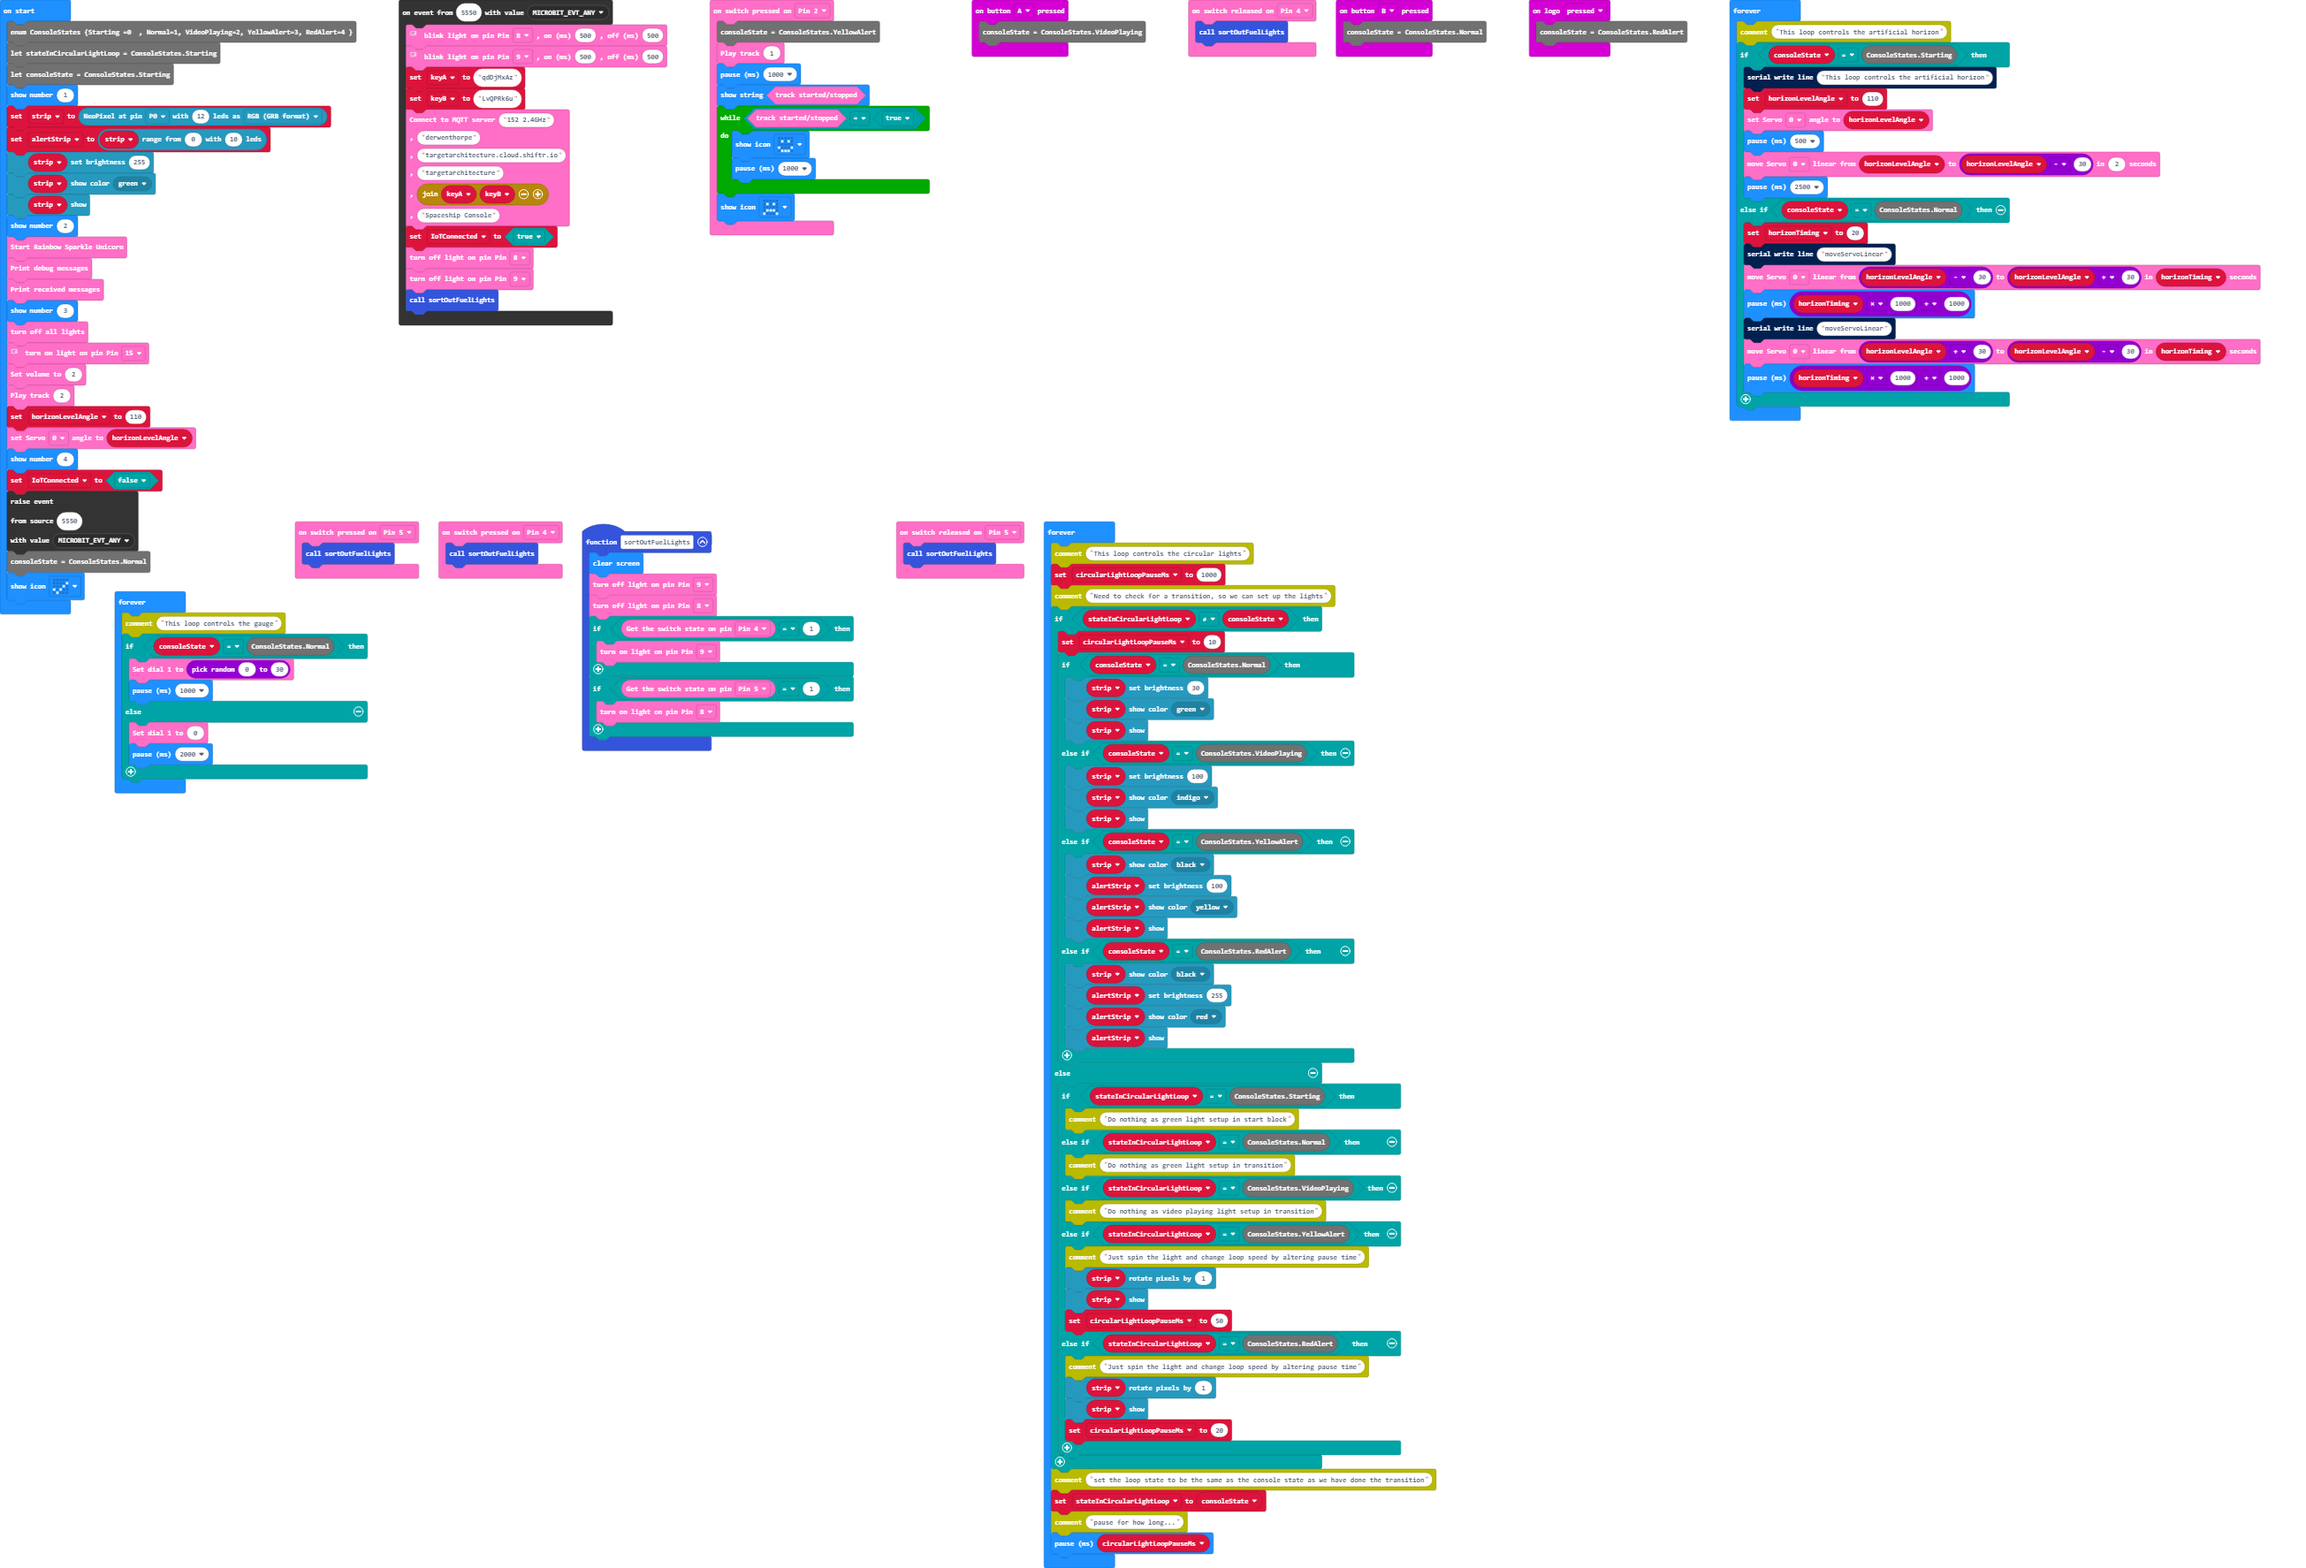
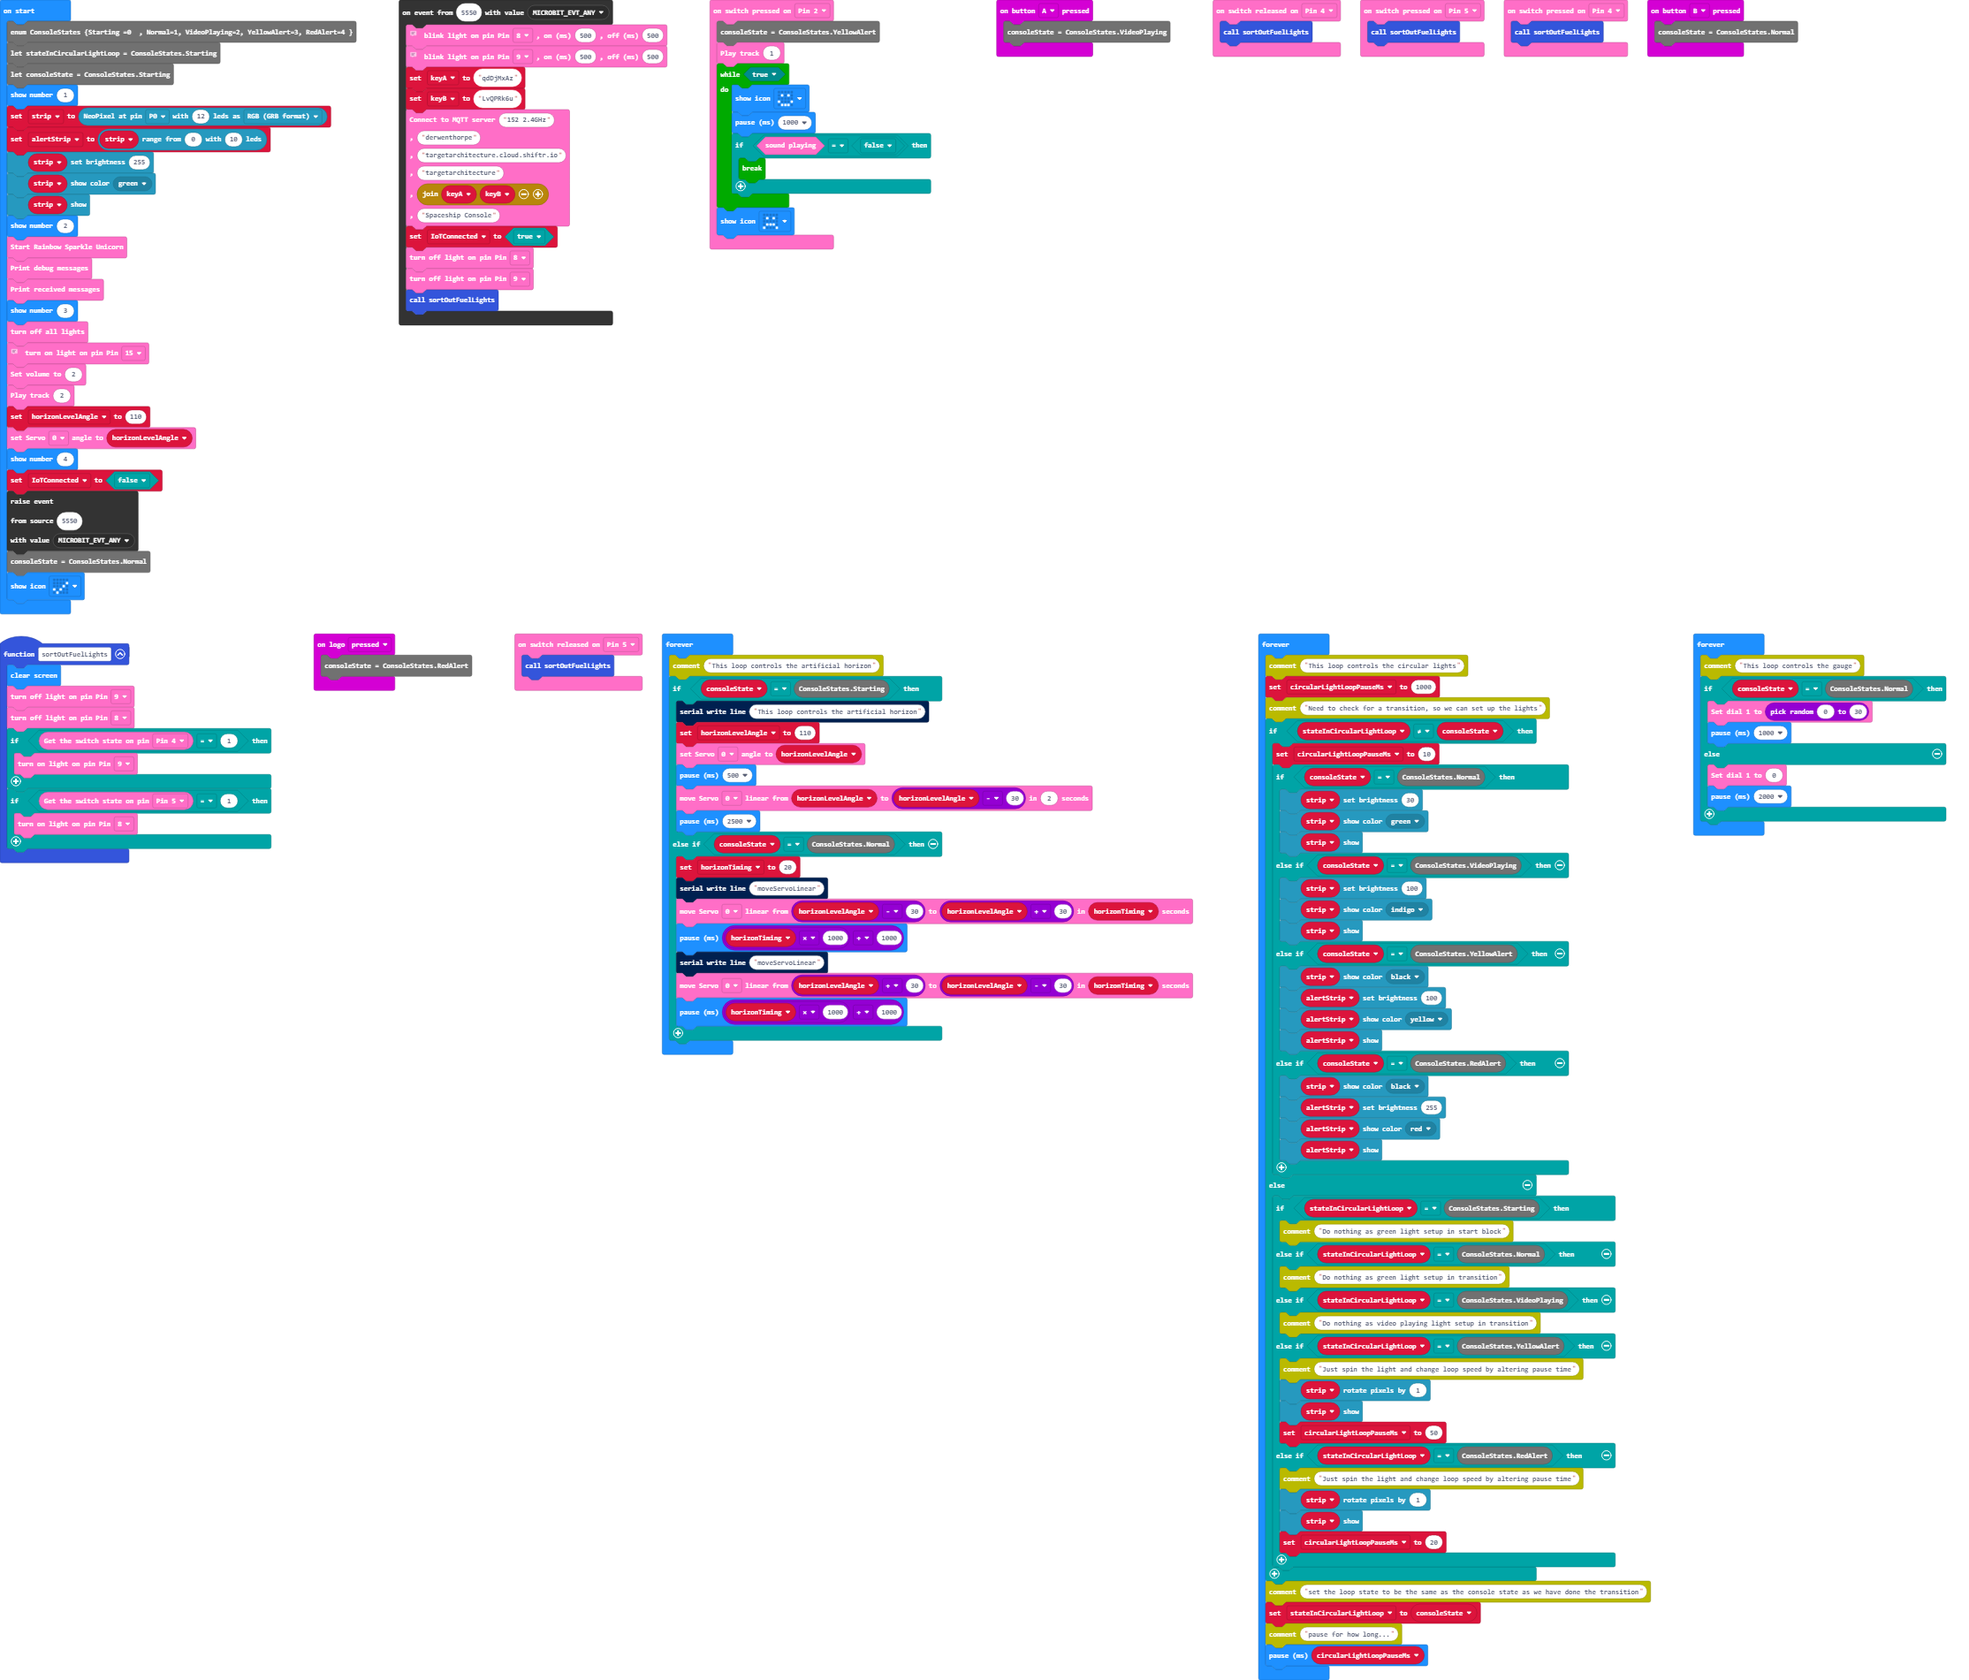
Update pxt.json, main.blocks, main.ts

Changed region(s): [[0.0, 0.0, 0.991, 1.0], [0.8362, 0.372, 0.991, 0.4961]]

diff --git a/main.ts b/main.ts
@@ -21,11 +21,12 @@ control.onEvent(5550, EventBusValue.MICROBIT_EVT_ANY, function () {
 RainbowSparkleUnicorn.Switch.onSwitchPressed(switchPins.P2, function () {
     consoleState = ConsoleStates.YellowAlert
 RainbowSparkleUnicorn.Sound.playTrack(1)
-    basic.pause(1000)
-    basic.showString("" + (RainbowSparkleUnicorn.Sound.startStop()))
-    while (RainbowSparkleUnicorn.Sound.startStop() == true) {
+    while (true) {
         basic.showIcon(IconNames.Happy)
         basic.pause(1000)
+        if (RainbowSparkleUnicorn.Sound.playingSound() == false) {
+            break;
+        }
     }
     basic.showIcon(IconNames.Sad)
 })
